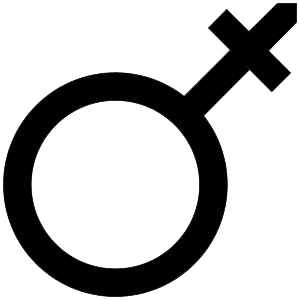
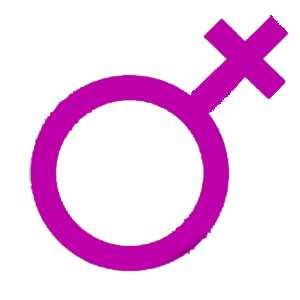
added toggling buttons that toggle when female or male position have been reached and passed a certain (and rather arbitrary) coordinate threshold.  Another thing to consider is for the gender dial to snap into position when it has reached that threshold.

diff --git a/widget-from-scratch/map.js b/widget-from-scratch/map.js
@@ -10,8 +10,7 @@ var startGender = function () {
     var img = $('.image');
     var offset = img.offset();
     var mousedown = false;
-    // var img = $('.imageFemale');
-    // var offset1 = img.offset();
+
     $("#imageFemale").css("opacity", 0);
 
     $('.image').mousedown(function(e){
@@ -37,15 +36,24 @@ var startGender = function () {
         img.css('-o-transform', 'rotate(' + degree + 'deg)');
         img.css('-ms-transform', 'rotate(' + degree + 'deg)');
 
-        opacityMale = ((135 - degree)*0.008);      
+        opacityMale = ((135 - degree)*0.008);
+        opacityFemale = (degree*0.008);
+
         if (mouseX > imageCenterX) {
             $("#imageMale").css("opacity", opacityMale);
+            $("#imageFemale").css("opacity", opacityFemale);
         }
 
+        if ( (mouseX < (imageCenterX + 30)) && (mouseX > (imageCenterX - 30)) && (mouseY > (imageCenterY)) ) {
+            $('a#buttonFemale').addClass("down");
+        } else {
+            $('a#buttonFemale').removeClass("down");
+        }
 
-        opacityFemale = (degree*0.008);      
-        if (mouseX > imageCenterX) {
-            $("#imageFemale").css("opacity", opacityFemale);
+        if ( (mouseY < (imageCenterX + 80)) && (mouseX > (imageCenterX + 30)) && (mouseY < (imageCenterY - 30)) ) {
+            $('a#buttonMale').addClass("down");
+        } else {
+            $('a#buttonMale').removeClass("down");
         }
     });
 }

diff --git a/widget-from-scratch/map.css b/widget-from-scratch/map.css
@@ -4,13 +4,31 @@
 }
 
 #imageFemale {
-    margin:100px 100px;
+    margin:0px 0px;
     position: absolute;
 }
 
 #imageMale {
     margin:0px 0px;
     position: absolute;
+}
+
+a {
+    background: #ccc;
+    cursor: pointer;
+    border-top: solid 2px #eaeaea;
+    border-left: solid 2px #eaeaea;
+    border-bottom: solid 2px #777;
+    border-right: solid 2px #777;
+    padding: 5px 5px;   	
+    }
+
+a.down {
+    background: #999;
+    border-top: solid 2px #777;
+    border-left: solid 2px #777;
+    border-bottom:solid 2px  #eaeaea;
+    border-right: solid 2px #eaeaea;
 }
 
 

diff --git a/widget-from-scratch/map.html b/widget-from-scratch/map.html
@@ -23,11 +23,14 @@
         <p>Select your Gender by rotating the gender symbol</p>
 
         <div id="imageMale">
-            <img src="img/maleGender.png" class="image"/><br>
+            <img src="img/maleGender2.png" class="image"/><br>
         </div>
         <div id="imageFemale">
-            <img src="img/femaleGender.png" class="image"/><br>
+            <img src="img/femaleGender2.png" class="image"/><br>
         </div>
+
+        <a id="buttonFemale" title="button">Female</a>
+        <a id="buttonMale" title="button">Male</a>
 
     </body>
 </html>
